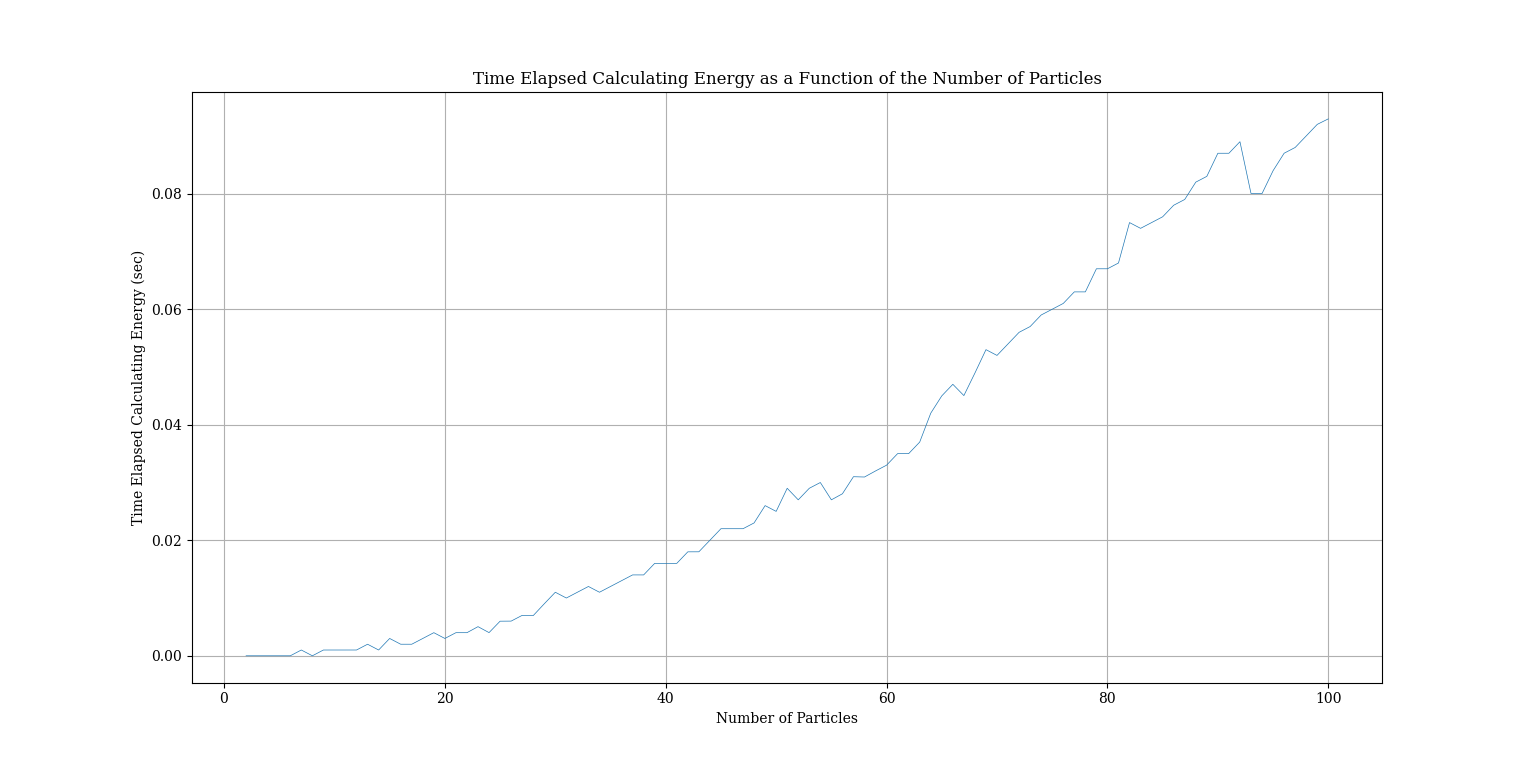
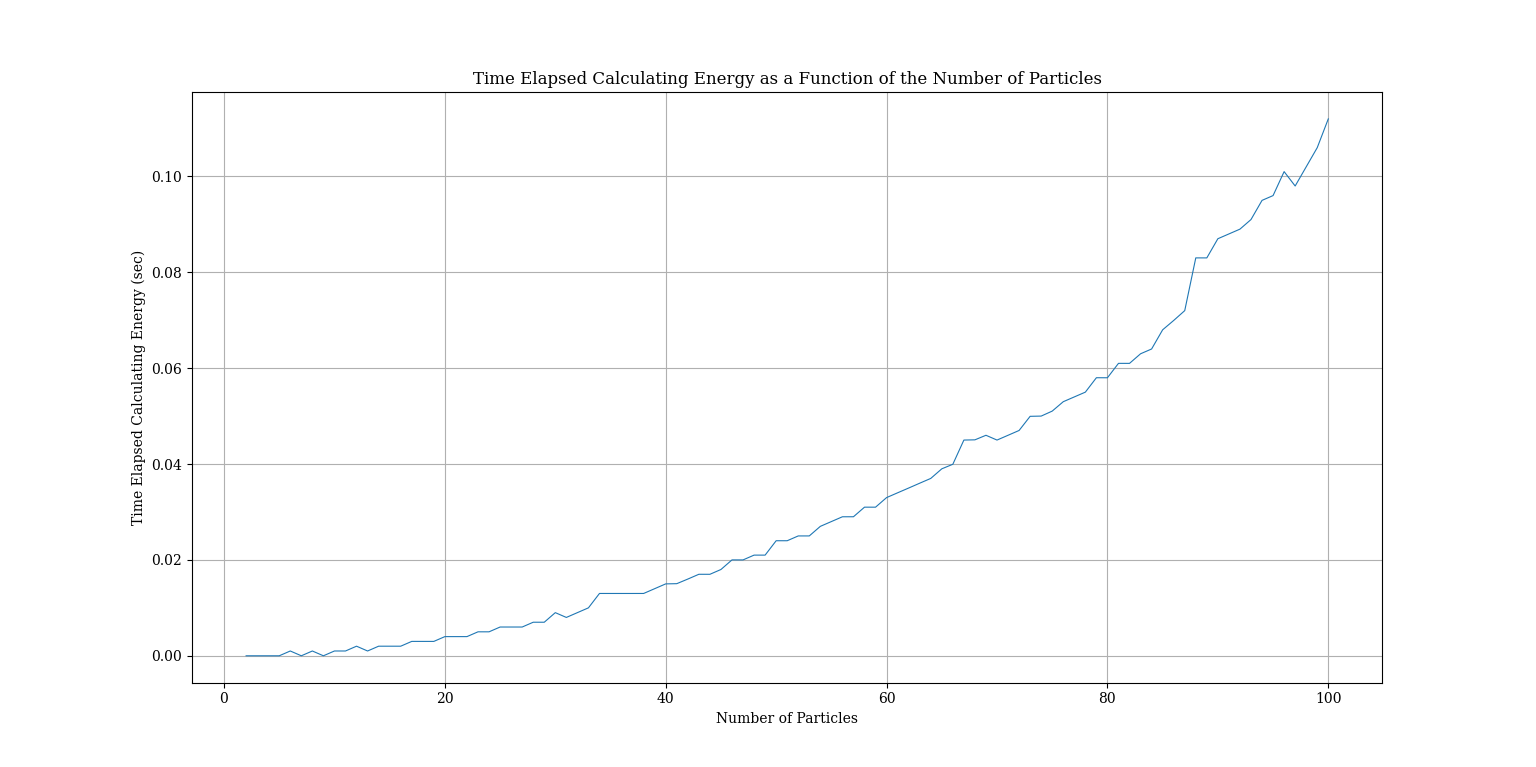
Modified TimeElapsedCalculatingEnergy.png

diff --git a/PracticeThree/Practice3.py b/PracticeThree/Practice3.py
@@ -73,7 +73,7 @@ x = ([[0.280658, 0.5280338, 0],
 # Graphing the time elapsed calculating energy as a function of the number of particles
 x = []
 y = []
-for num in range(2, 501):
+for num in range(2, 101):
     random_coordinates = initialize_particles(num, 5)
     t1 = time.time()
     total_energy = calc_sys_potential(num, random_coordinates, 5)
